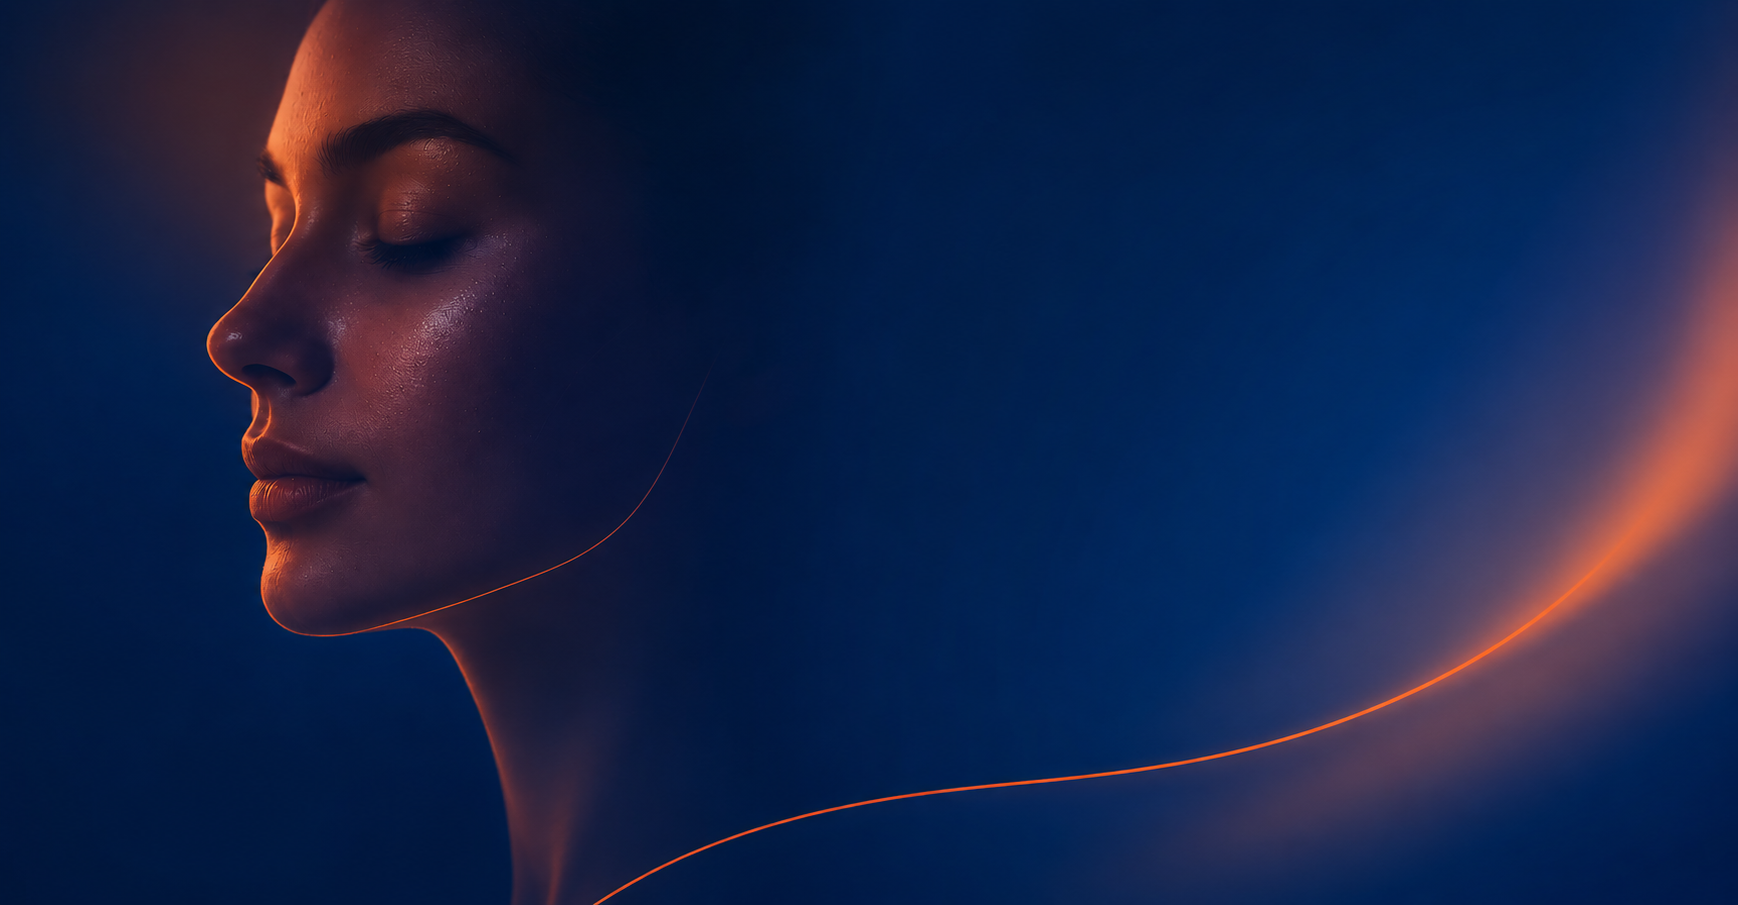
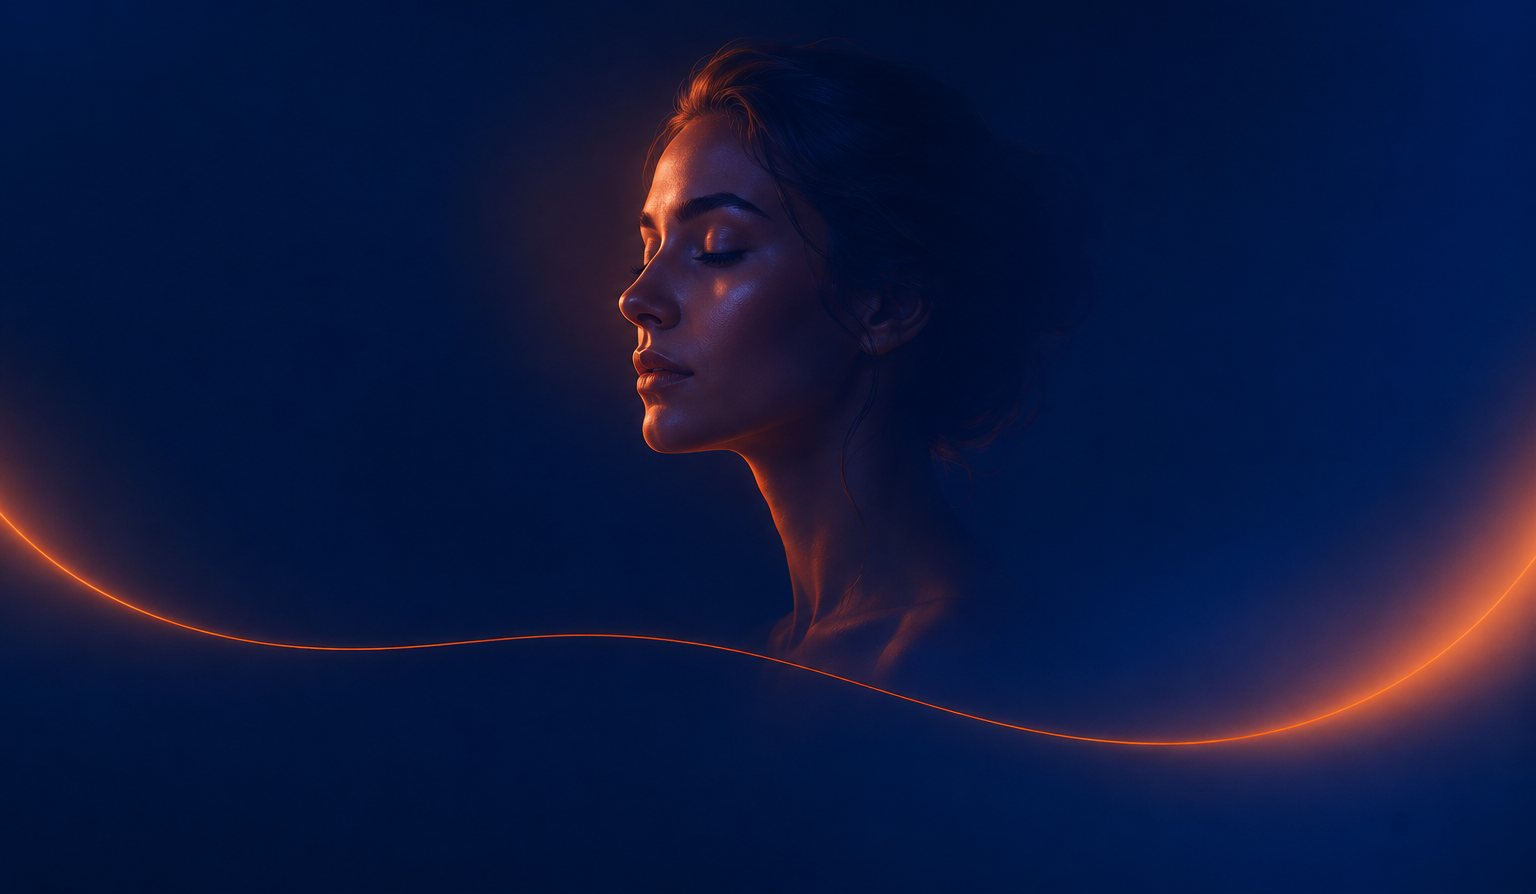
ajuste imagens Hero

diff --git a/src/components/Final.jsx b/src/components/Final.jsx
@@ -1,6 +1,6 @@
-import React from 'react';
-import './Final.css';
-import Form from './Form.jsx';
+import React from "react";
+import "./Final.css";
+import Form from "./Form.jsx";
 
 export function FinalForm({ onSubmit }) {
   return (
@@ -9,14 +9,19 @@ export function FinalForm({ onSubmit }) {
         <div className="final-grid">
           <div className="left reveal">
             <h2>
-              <span className="accent">Capacite-se</span> para um mercado em constante{' '}
-              <span className="accent">expansão e demanda.</span>
+              <span className="accent">Capacite-se</span> para um mercado em
+              constante <span className="accent">expansão e demanda.</span>
             </h2>
             <p>
-              Preencha seus dados para falar com a coordenação do IMS e receber as
-              informações completas da Turma I da Pós-graduação em Estética Médica.
+              Preencha seus dados para falar com a coordenação do IMS e receber
+              as informações completas da Turma I da Pós-graduação em Estética
+              Médica.
             </p>
-            <a href="#" className="arrow-link" onClick={e => e.preventDefault()}>
+            <a
+              href="#"
+              className="arrow-link"
+              onClick={(e) => e.preventDefault()}
+            >
               Cadastre-se para saber mais →
             </a>
           </div>
@@ -41,8 +46,12 @@ export function Footer() {
           <div>
             <h4>WhatsApp</h4>
             <ul>
-              <li><a href="#">(00) 00000-0000</a></li>
-              <li style={{ marginTop: 12 }}><a href="mailto:contato@ims.edu.br">contato@ims.edu.br</a></li>
+              <li>
+                <a href="#">(00) 00000-0000</a>
+              </li>
+              <li style={{ marginTop: 12 }}>
+                <a href="mailto:contato@ims.edu.br">contato@ims.edu.br</a>
+              </li>
             </ul>
           </div>
           <div>
@@ -55,16 +64,18 @@ export function Footer() {
               <li>Gestão de Clínica</li>
             </ul>
           </div>
-          <div>
+          {/* <div>
             <h4>Institucional</h4>
             <ul>
               <li><a href="#">Política de Privacidade</a></li>
               <li><a href="#">Política de Cookies</a></li>
               <li><a href="#">Reconhecimento MEC</a></li>
             </ul>
-          </div>
+          </div> */}
         </div>
-        <div className="copy">© 2026 IMS · Atendimento exclusivo para médicos · CRM exigido</div>
+        <div className="copy">
+          © 2026 IMS · Atendimento exclusivo para médicos · CRM exigido
+        </div>
       </div>
     </footer>
   );
@@ -72,15 +83,18 @@ export function Footer() {
 
 export function Thanks({ show, onClose }) {
   return (
-    <div className={`thanks ${show ? 'show' : ''}`}>
+    <div className={`thanks ${show ? "show" : ""}`}>
       <div className="thanks-inner">
         <div className="check">✓</div>
         <h2>Cadastro recebido com sucesso.</h2>
         <p>
-          Recebemos suas informações. A coordenação do IMS entrará em contato pelo
-          WhatsApp para apresentar os detalhes da Turma I da Pós-graduação em Estética Médica.
+          Recebemos suas informações. A coordenação do IMS entrará em contato
+          pelo WhatsApp para apresentar os detalhes da Turma I da Pós-graduação
+          em Estética Médica.
         </p>
-        <button className="btn btn-orange" onClick={onClose}>Falar com a coordenação</button>
+        <button className="btn btn-orange" onClick={onClose}>
+          Falar com a coordenação
+        </button>
       </div>
     </div>
   );
